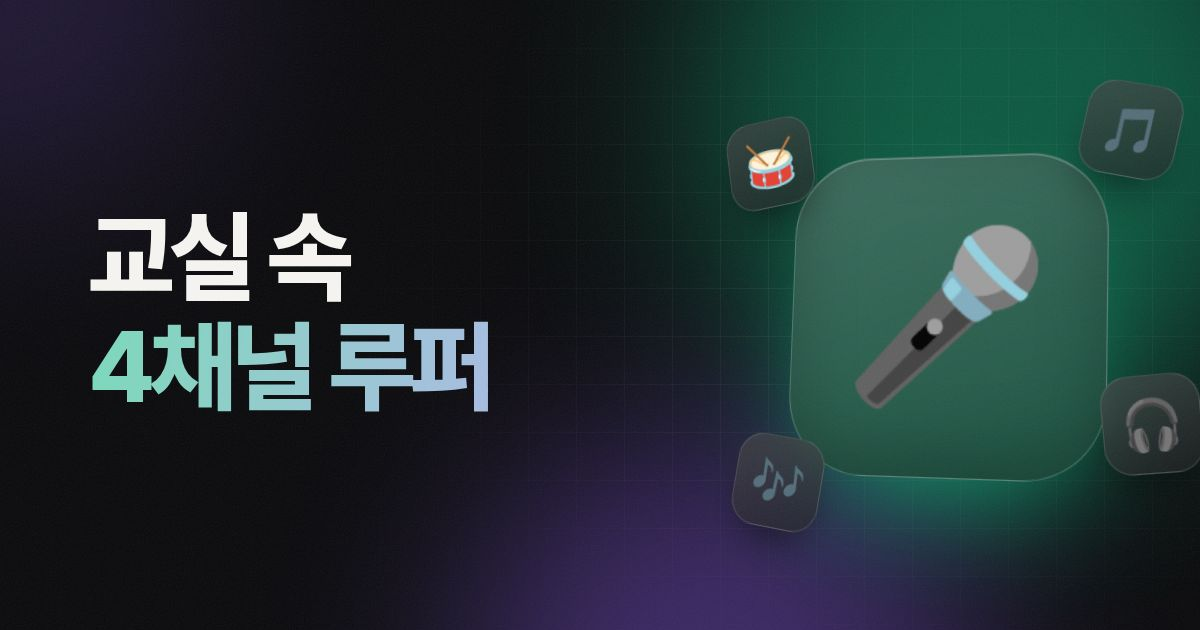
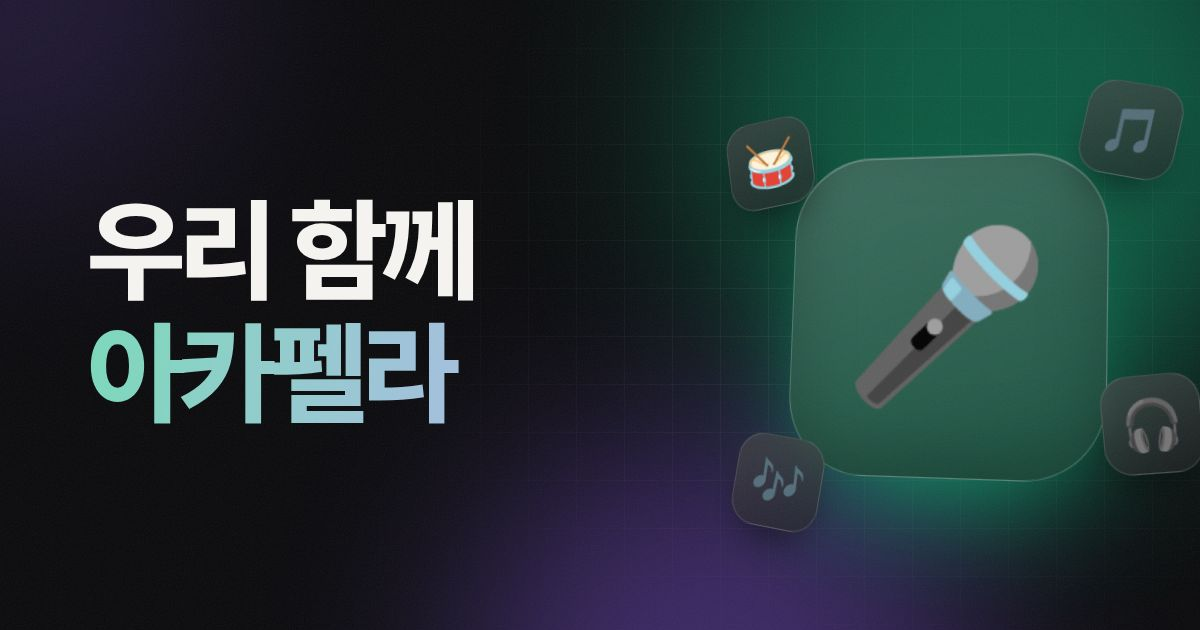
'교실 속 4채널 루퍼' → '우리 함께 아카펠라'로 이름 변경 반영
- 카드 이름·커버, 허브 공유 이미지 속 타일 이름 갱신
- 바뀐 커버가 바로 보이도록 서비스워커 캐시 버전 yscode-v3으로 올림

Claude-Session: https://claude.ai/code/session_01NaW5r8WBzNy5B2e9iMgdZz

Changed region(s): [[0.0617, 0.5127, 0.4317, 0.6937], [0.0617, 0.3016, 0.4008, 0.4825]]

diff --git a/sw.js b/sw.js
@@ -1,7 +1,7 @@
 // 앱 설치(PWA)용 서비스워커.
 // 페이지는 항상 네트워크를 먼저 확인해 최신 내용을 보여 주고, 오프라인일 때만 저장해 둔 사본을 씁니다.
 // 이미지·아이콘처럼 잘 바뀌지 않는 파일은 저장해 둔 사본을 먼저 씁니다. 이런 파일을 바꾸면 CACHE_VERSION을 올려 주세요.
-const CACHE_VERSION = 'yscode-v2';
+const CACHE_VERSION = 'yscode-v3';
 const APP_SHELL = ['./', './index.html', './manifest.webmanifest', './icon-192.png', './icon-512.png'];
 
 self.addEventListener('install', event => {

diff --git a/index.html b/index.html
@@ -708,7 +708,7 @@
                 id: 'acapella',
                 cover: 'covers/acapella.jpg',
                 accent: '#10b981',
-                name: '교실 속 4채널 루퍼',
+                name: '우리 함께 아카펠라',
                 category: '수업용',
                 icon: '🎤',
                 desc: '파트별로 녹음·반복해 우리 반 아카펠라를 만드는 음악 수업 도구 (마이크 필요)',
